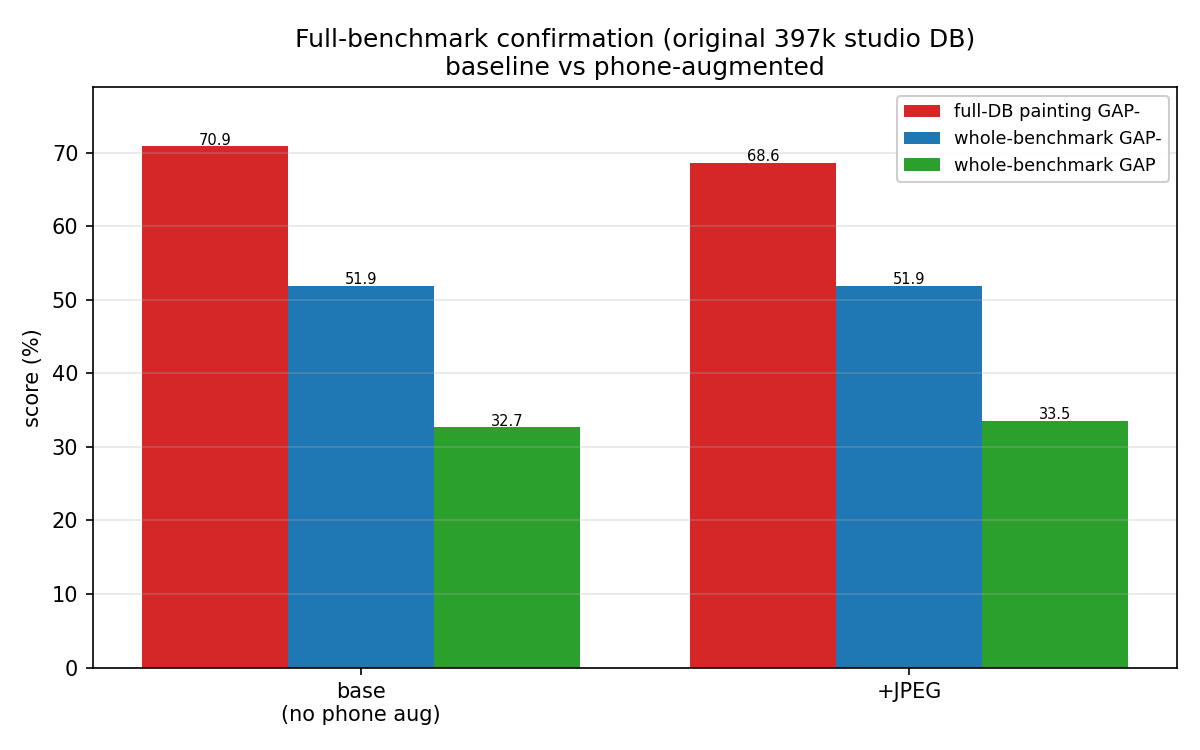
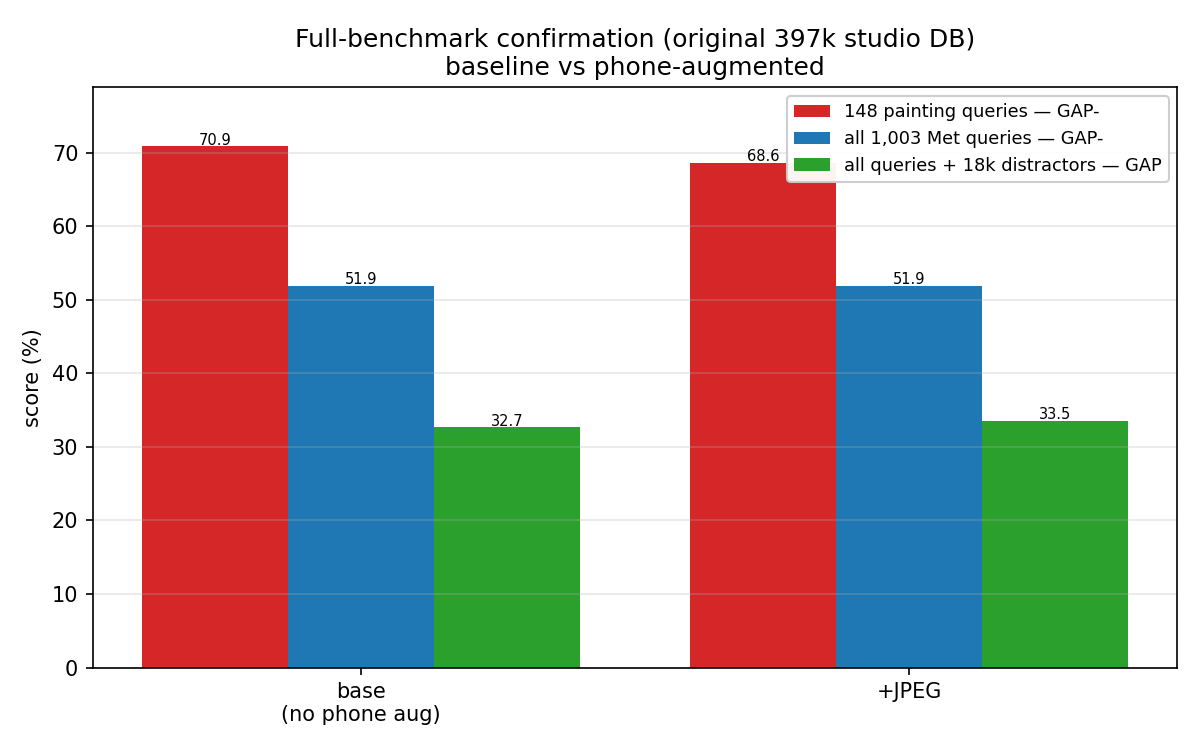
Clearer EXP-9 confirmation tables: split by query set, plain GAP/GAP-/ACC columns
Same fix as the real-vs-synthetic-mix tables: instead of prefixed headers
(full GAP / paint GAP- (148, full DB) / ...), two small tables that each name
their query set -- all 1,003 Met queries vs only the 148 painting queries --
both searched in the 397k DB. Figure legend aligned to the same language.

Changed region(s): [[0.6475, 0.1227, 0.9558, 0.2453]]

diff --git a/scripts/plot_phone_aug.py b/scripts/plot_phone_aug.py
@@ -150,9 +150,9 @@ def fig_confirm():
     if "base" not in have or len(have) < 2:
         print(f"fig_confirm.png SKIPPED -- full-benchmark logs not ready (have: {have})"); return
     arms = [a for a in ARMS if a in have]
-    metrics = [("paint_gnd", "full-DB painting GAP-", RED),
-               ("gnd", "whole-benchmark GAP-", BLUE),
-               ("gap", "whole-benchmark GAP", GREEN)]
+    metrics = [("paint_gnd", "148 painting queries — GAP-", RED),
+               ("gnd", "all 1,003 Met queries — GAP-", BLUE),
+               ("gap", "all queries + 18k distractors — GAP", GREEN)]
     xs = list(range(len(arms))); n = len(metrics); w = 0.8 / n
     fig, ax = plt.subplots(figsize=(8.0, 5.0))
     for j, (key, lab, col) in enumerate(metrics):

diff --git a/experiments/phone-photo-augmentation/README.md b/experiments/phone-photo-augmentation/README.md
@@ -87,17 +87,29 @@ differs. Closed world → no distractors → GAP = GAP⁻. Differences ≤ ~2 po
 noise floor around it. JPEG sits inside the band (a tie); blur, sensor and the three-way stack fall
 below it, and the more aggressive the augmentation, the bigger the drop.*
 
-**Full-benchmark confirmation — best arm (+JPEG) vs the baseline**, original 397k studio DB:
+**Full-benchmark confirmation — best arm (+JPEG) vs the baseline.** Same models, now evaluated the
+hard way: the search database is the original **397,121 studio photos** (not the 12k painting world
+above). Two query sets, reported separately:
 
-| model | full GAP | full GAP⁻ | full ACC | paint GAP⁻ (148, full DB) | paint ACC |
-|---|--:|--:|--:|--:|--:|
-| base (all-renders) | 32.68 | 51.94 | 54.34 | 70.90 | 72.30 |
-| +JPEG | 33.53 | 51.89 | 54.54 | 68.63 | 70.27 |
+**All 1,003 real Met queries** — the whole benchmark (GAP additionally counts the 18,316 distractor
+queries; K/τ tuned on the validation set):
 
-*Full-DB numbers: GAP includes the 18,316 distractors; the painting slice uses fixed K=7, τ=50 (EXP-2
-protocol). The confirmation upholds the tie: overall GAP⁻/ACC are flat (−0.05 / +0.20), the
-distractor-sensitive GAP ticks up (+0.85 — mild JPEG seems to help reject junk queries a little), and
-the 148-photo painting slice ticks down (−2.3 GAP⁻) — every delta at or below the noise floor. Nothing
+| model | GAP | GAP⁻ | ACC |
+|---|--:|--:|--:|
+| **base — no phone aug** (= the all-renders model) | 32.68 | 51.94 | 54.34 |
+| +JPEG | 33.53 | 51.89 | 54.54 |
+
+**Only the 148 painting queries** — the same photos as the closed-world table above, but now the right
+painting must be found among all 397k (fixed K = 7, τ = 50, the EXP-2 protocol):
+
+| model | GAP⁻ | ACC |
+|---|--:|--:|
+| **base — no phone aug** (= the all-renders model) | 70.90 | 72.30 |
+| +JPEG | 68.63 | 70.27 |
+
+*The confirmation upholds the tie: on the whole benchmark, GAP⁻/ACC are flat (−0.05 / +0.20) and the
+distractor-sensitive GAP ticks up (+0.85 — mild JPEG seems to help reject junk queries a little); on
+the painting queries +JPEG ticks down (−2.3 GAP⁻) — every delta at or below the noise floor. Nothing
 here changes the headline: no gain from phone augmentation.*
 
 ![Full-benchmark confirmation](figures/fig_confirm.png)